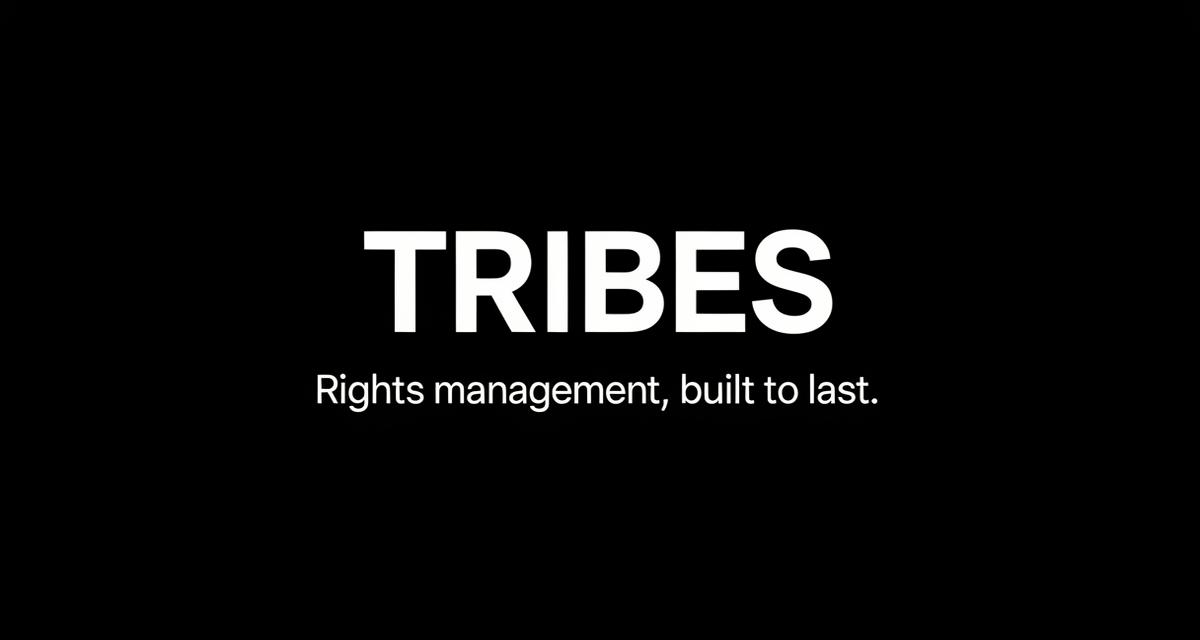
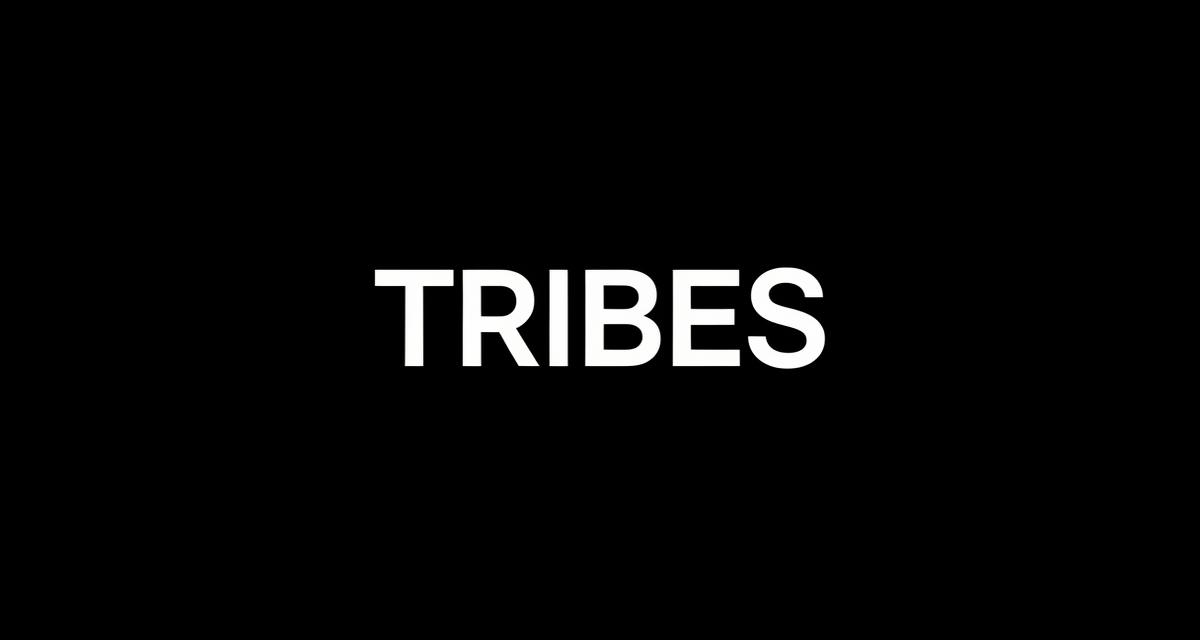
Changes

Changed region(s): [[0.2467, 0.3438, 0.74, 0.6562]]

diff --git a/index.html b/index.html
@@ -4,8 +4,8 @@
     <meta charset="UTF-8" />
     <meta name="viewport" content="width=device-width, initial-scale=1.0" />
     
-    <title>TRIBES | Rights Management</title>
-    <meta name="description" content="Publishing administration, built for precision. Professional rights management services for music publishers and creators." />
+    <title>Tribes Rights Management</title>
+    <meta name="description" content="Rights management, built to last." />
     <meta name="author" content="Tribes Rights Management" />
 
     <!-- Favicon -->
@@ -15,8 +15,8 @@
     <link rel="icon" sizes="512x512" href="/favicon-512.png" />
 
     <!-- Open Graph -->
-    <meta property="og:title" content="TRIBES | Rights Management" />
-    <meta property="og:description" content="Publishing administration, built for precision. Professional rights management services for music publishers and creators." />
+    <meta property="og:title" content="Tribes Rights Management" />
+    <meta property="og:description" content="Rights management, built to last." />
     <meta property="og:type" content="website" />
     <meta property="og:image" content="/og-image.png" />
     <meta property="og:image:width" content="1200" />
@@ -25,8 +25,8 @@
 
     <!-- Twitter/X Card -->
     <meta name="twitter:card" content="summary_large_image" />
-    <meta name="twitter:title" content="TRIBES | Rights Management" />
-    <meta name="twitter:description" content="Publishing administration, built for precision." />
+    <meta name="twitter:title" content="Tribes Rights Management" />
+    <meta name="twitter:description" content="Rights management, built to last." />
     <meta name="twitter:image" content="/og-image.png" />
   </head>
 
